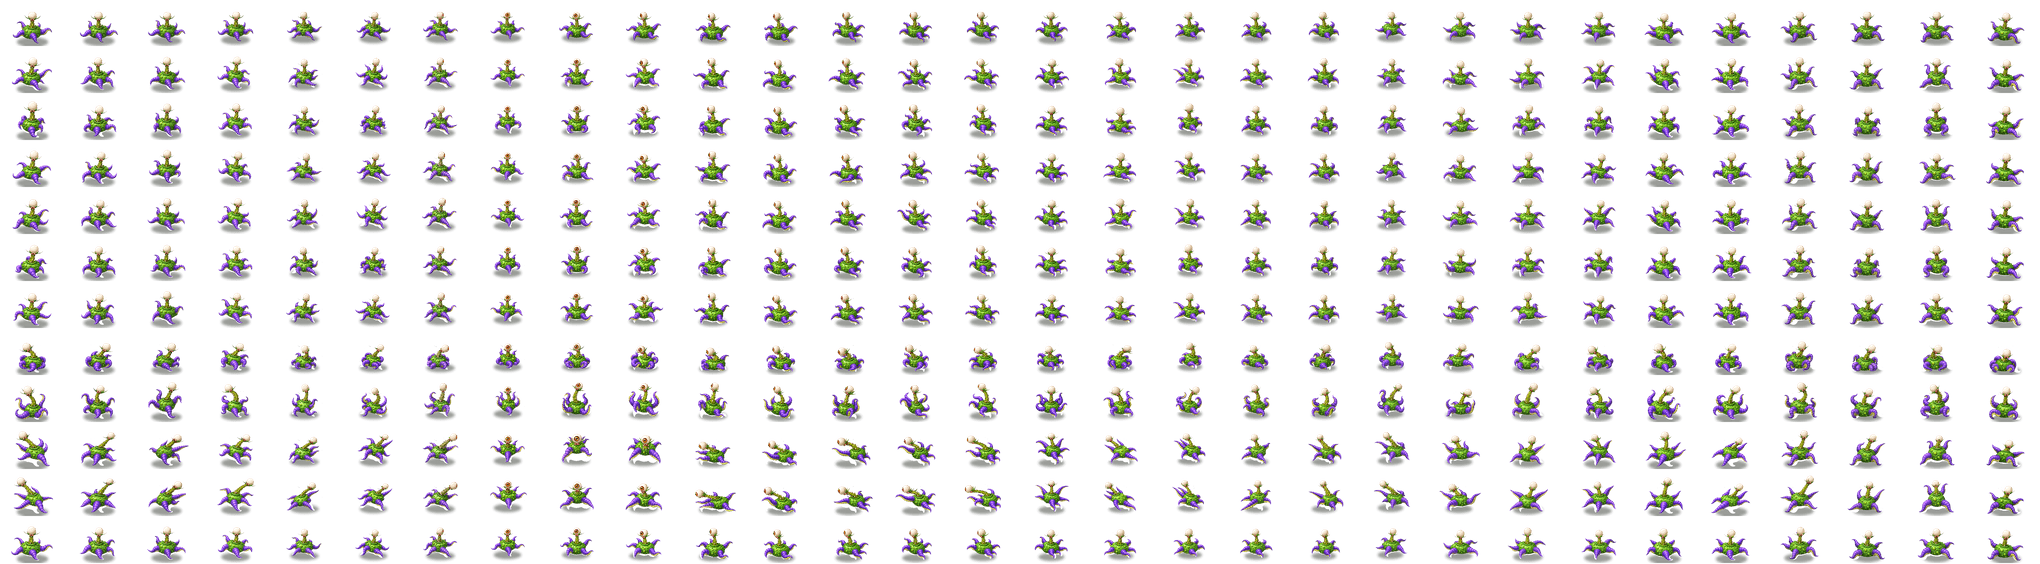
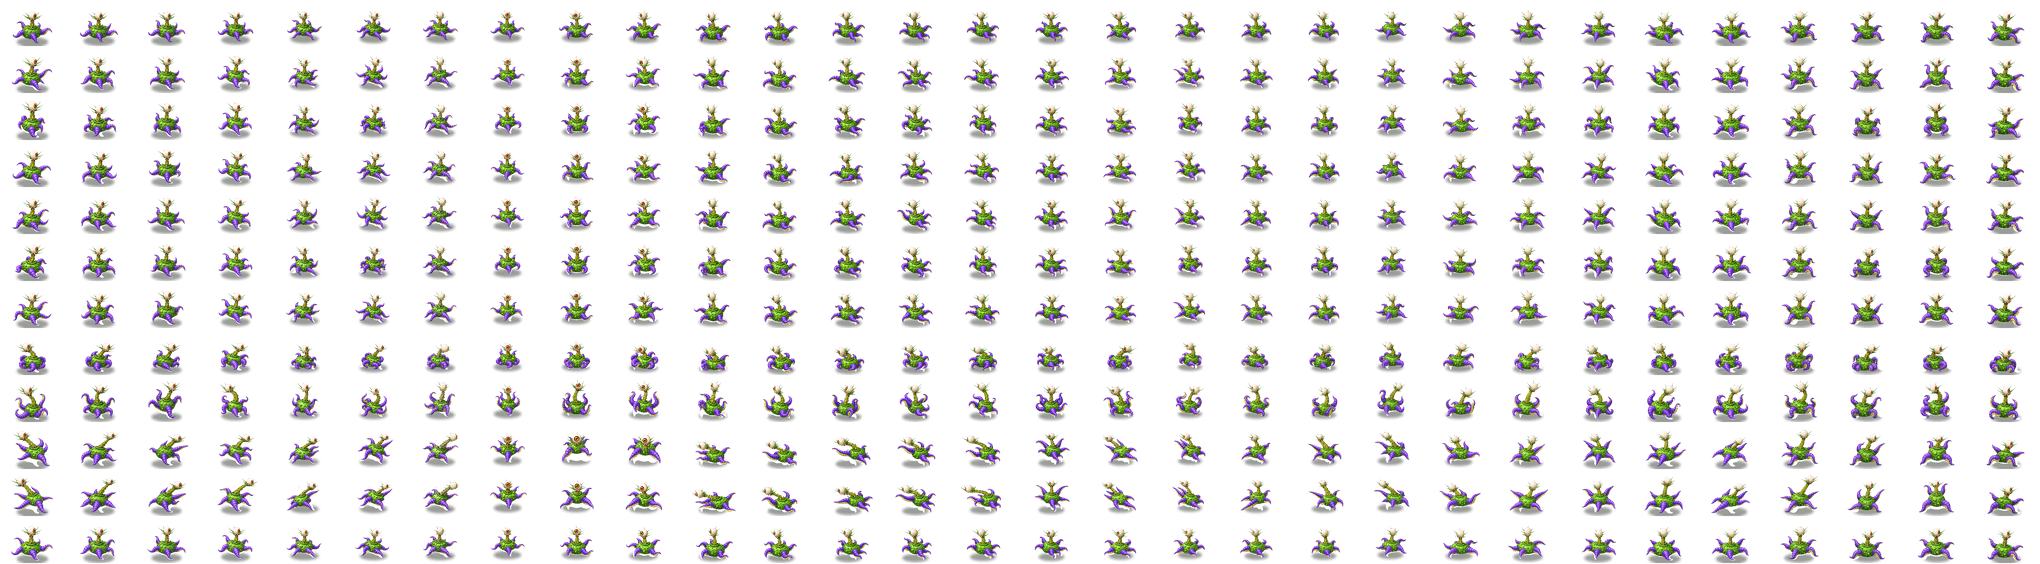
Fix Project X animation: eye shows when walking left/right, add leaves
Headings 27-5 and 15-18 showed only the blank back of the eyeball; they now get an
orange iris turned to the walking side. Every frame gets the long green leaves round
the eye from the portrait. Size, anchor and frame layout are unchanged. The new
eyefix.py step in the kit runs on build_h.py's frames before assemble.py.

Claude-Session: https://claude.ai/code/session_01NPVtfDgw5cMwav19EkNBEd

diff --git a/web/tools/projectx-anim-kit/eyefix.py b/web/tools/projectx-anim-kit/eyefix.py
@@ -1,0 +1,191 @@
+"""Project X eye fix: paint the eye on headings that showed only the blank back of the
+eyeball, and give every frame the long green leaves round the eye that the portrait has.
+
+Usage (from the kit's work folder): python eyefix.py <src_dir> <dst_dir>
+Reads <src_dir>/h<n>/frames/fNN.png (the frames build_h.py made) and writes the fixed frames
+to <dst_dir>/h<n>/frames/; run assemble.py in <dst_dir> afterwards.
+
+Headings are the sheet columns (12 degrees each, 0 = moving right, 7-8 = down, 15 = left,
+22 = up). Columns 6-14 already have a painted eye and keep it. The rest get an orange iris
+painted onto the white ball, turned to the side the monster walks: right for 27-5, left for
+15-18. Columns 19-26 (walking up the screen, away from the viewer) keep the plain back.
+"""
+import math, os, sys
+import numpy as np
+from PIL import Image, ImageDraw
+from scipy import ndimage as ndi
+
+N, ROWS = 30, 12
+SS = 4  # supersampling for the painted parts
+ELEV = math.radians(25)  # camera height used to project the leaves
+
+# iris turn (degrees, + = to screen-right) by heading; None = keep the art as it is
+KEEP = set(range(6, 15))
+YAW = {27: 66, 28: 61, 29: 56, 0: 52, 1: 50, 2: 50, 3: 50, 4: 50, 5: 50,
+       15: -50, 16: -55, 17: -60, 18: -66}
+
+
+def ball(a):
+    """Eyeball circle (cx, cy, R) and its mask in one RGBA frame (float array)."""
+    rgb = a[..., :3]; mx = rgb.max(-1); mn = rgb.min(-1)
+    sat = (mx - mn) / np.maximum(mx, 1); lum = rgb.mean(-1); solid = a[..., 3] > 200
+    m = solid & (lum > 120) & (sat < 0.25)
+    lab, n = ndi.label(m)
+    ar = ndi.sum(m, lab, range(1, n + 1)); cm = ndi.center_of_mass(m, lab, range(1, n + 1))
+    i = min((i for i in range(n) if ar[i] > 0.4 * ar.max()), key=lambda i: cm[i][0])
+    comp = lab == i + 1
+    # grow into the shaded side of the ball (darker but still unsaturated cream)
+    soft = solid & (lum > 85) & (sat < 0.33)
+    for _ in range(4):
+        comp |= ndi.binary_dilation(comp) & soft
+    comp = ndi.binary_opening(ndi.binary_fill_holes(comp))
+    lab2, _ = ndi.label(comp); ys, xs = np.where(comp)
+    comp = lab2 == np.bincount(lab2[comp]).argmax()
+    top = np.where(comp.any(1))[0].min()
+    best, cx = 0, 0.0
+    for y in range(top, min(top + 40, comp.shape[0])):
+        xx = np.where(comp[y])[0]
+        if len(xx) and xx.max() - xx.min() + 1 > best:
+            best = xx.max() - xx.min() + 1; cx = (xx.max() + xx.min()) / 2
+    R = best / 2
+    return cx, top + R - 0.5, R, comp
+
+
+def lerp(c0, c1, t):
+    return tuple(c0[i] + (c1[i] - c0[i]) * t for i in range(3))
+
+
+def iris_layer(a, cx, cy, R, mask, yaw):
+    """RGBA float layer (native size) with the iris and pupil painted on the ball."""
+    H, W = a.shape[:2]
+    x0, x1 = int(cx - R - 2), int(cx + R + 3); y0, y1 = int(cy - R - 2), int(cy + R + 3)
+    x0, y0 = max(0, x0), max(0, y0); x1, y1 = min(W, x1), min(H, y1)
+    ph, pw = (y1 - y0) * SS, (x1 - x0) * SS
+    yy, xx = np.mgrid[:ph, :pw]
+    u = ((x0 + (xx + 0.5) / SS) - 0.5 - cx) / R; v = ((y0 + (yy + 0.5) / SS) - 0.5 - cy) / R
+    r2 = u * u + v * v; inside = r2 < 1
+    nz = np.sqrt(np.clip(1 - r2, 0, 1))
+    b = math.radians(yaw); p = 0.08
+    w = (math.sin(b) * math.cos(p), math.sin(p), math.cos(b) * math.cos(p))
+    d = u * w[0] + v * w[1] + nz * w[2]
+    ang = np.arccos(np.clip(d, -1, 1)); A = 0.62; P = 0.24
+    # angle round the iris centre, for faint radial streaks
+    e1 = np.array([math.cos(b), 0, -math.sin(b)]); e2 = np.cross(w, e1)
+    phi = np.arctan2(u * e2[0] + v * e2[1] + nz * e2[2], u * e1[0] + v * e1[1] + nz * e1[2])
+    t = ang / A
+    col = np.zeros((ph, pw, 3))
+    stops = [(0.0, (250, 178, 70)), (0.45, (246, 150, 45)), (0.75, (222, 104, 22)),
+             (0.92, (150, 52, 14)), (1.0, (95, 32, 10))]
+    for (t0, c0), (t1, c1) in zip(stops, stops[1:]):
+        s = (t >= t0) & (t < t1); k = ((t - t0) / (t1 - t0))[s][:, None]
+        col[s] = np.array(c0) + (np.array(c1) - np.array(c0)) * k
+    col *= (1 + 0.07 * np.sin(phi * 13))[..., None] * (1 + 0.04 * np.sin(phi * 31 + 1))[..., None]
+    pupil = ang < P
+    col[pupil] = (22, 12, 10)
+    on = inside & (ang < A)
+    # keep the ball's own light and shade: scale by the original brightness
+    big = np.kron(a[y0:y1, x0:x1], np.ones((SS, SS, 1)))
+    lum = big[..., :3].mean(-1)
+    ref = np.percentile(a[..., :3].mean(-1)[mask], 90)
+    shade = np.clip(lum / ref, 0.55, 1.08)[..., None]
+    col = col * shade
+    # the ball's bright highlight shows through
+    hl = np.clip((lum - 0.97 * ref) / (0.06 * ref), 0, 1)[..., None]
+    col = col * (1 - hl * 0.7) + big[..., :3] * hl * 0.7
+    mbig = np.kron(ndi.binary_erosion(mask)[y0:y1, x0:x1].astype(float), np.ones((SS, SS)))
+    mbig = ndi.uniform_filter(mbig, SS)
+    alpha = on * mbig
+    # soften the iris edge on the ball
+    alpha = ndi.uniform_filter(alpha, 3)
+    # downsample (premultiplied)
+    pre = np.dstack([col * alpha[..., None], alpha])
+    small = pre.reshape(y1 - y0, SS, x1 - x0, SS, 4).mean((1, 3))
+    out = np.zeros((H, W, 4)); out[y0:y1, x0:x1] = small
+    return out
+
+
+def blades(heading, frame, cx, cy, R):
+    """List of (depth, polygon-outer, polygon-inner) in supersampled screen coords."""
+    psi0 = heading * 12
+    if 1 <= frame <= 6:
+        sway = 7 * math.sin(2 * math.pi * (frame - 1) / 6); rise = 1 + 0.08 * math.cos(2 * math.pi * (frame - 1) / 6)
+    elif frame >= 7:
+        sway = [0, -5, 8, 5, 0][frame - 7]; rise = [0.85, 1.2, 0.8, 0.85, 1.0][frame - 7]
+    else:
+        sway, rise = 0, 1
+    spec = [(10, 2.7), (55, 2.2), (110, 2.3), (170, 2.75), (215, 2.3), (265, 1.9), (320, 2.4)]
+    bx, by = cx, cy + 0.6 * R
+    out = []
+    for az, L in spec:
+        psi = math.radians(psi0 + az + sway); L *= R
+        gx, gy = math.cos(psi), math.sin(psi)
+        pts = []
+        for j in range(13):
+            t = j / 12
+            rr = L * t; hh = L * rise * (0.02 * t + 0.42 * t ** 2.2)
+            sx = bx + rr * gx
+            sy = by + rr * gy * math.sin(ELEV) - hh * math.cos(ELEV)
+            pts.append((sx, sy))
+        depth = gy * math.cos(ELEV)
+        wid = [0.38 * R * (1 - (j / 12) ** 1.4) * (0.55 + 0.45 * math.sin(math.pi * min(1, j / 12 + 0.25))) for j in range(13)]
+        def poly(scale):
+            left, right = [], []
+            for j, (px, py) in enumerate(pts):
+                qx, qy = pts[min(j + 1, 12)]; ox, oy = pts[max(j - 1, 0)]
+                tx, ty = qx - ox, qy - oy; nl = math.hypot(tx, ty) or 1
+                nx, ny = -ty / nl, tx / nl; hw = wid[j] * scale / 2
+                left.append(((px + nx * hw) * SS, (py + ny * hw) * SS))
+                right.append(((px - nx * hw) * SS, (py - ny * hw) * SS))
+            return left + right[::-1]
+        out.append((depth, poly(1.0), poly(0.45)))
+    return out
+
+
+def leaf_layer(H, W, items, front):
+    im = Image.new('RGBA', (W * SS, H * SS)); d = ImageDraw.Draw(im)
+    for depth, outer, inner in sorted(items, key=lambda b: b[0]):
+        k = 1.0 if depth > 0 else 0.82
+        d.polygon(outer, fill=(int(46 * k), int(100 * k), int(28 * k), 255))
+        d.polygon(inner, fill=(int(108 * k), int(182 * k), int(60 * k), 255))
+    im = im.resize((W, H), Image.LANCZOS)
+    return np.asarray(im).astype(float)
+
+
+def over(dst, src):
+    """alpha-composite straight-alpha float src over dst (both 0-255 RGBA)."""
+    sa = src[..., 3:] / 255; da = dst[..., 3:] / 255
+    oa = sa + da * (1 - sa)
+    rgb = (src[..., :3] * sa + dst[..., :3] * da * (1 - sa)) / np.maximum(oa, 1e-6)
+    return np.dstack([rgb, oa * 255])
+
+
+def fix_frame(a, n, k):
+    cx, cy, R, mask = ball(a)
+    H, W = a.shape[:2]
+    items = blades(n, k, cx, cy, R)
+    back = leaf_layer(H, W, items, False)  # every leaf sits behind the ball
+    # the ball and the pink lips under it hide the leaves behind them
+    yy, xx = np.mgrid[:H, :W]
+    disk = np.clip(R + 0.5 - np.hypot(xx - cx, yy - cy), 0, 1)
+    rgb = a[..., :3]
+    lips = (a[..., 3] > 128) & (rgb[..., 0] > 140) & (rgb[..., 0] > rgb[..., 1] + 40) & (rgb[..., 2] > 60)         & (np.abs(xx - cx) < 1.2 * R) & (yy > cy) & (yy < cy + 1.8 * R)
+    hide = np.maximum(disk, ndi.uniform_filter(lips.astype(float), 3))
+    back[..., 3] *= 1 - np.clip(hide, 0, 1)
+    mask = (disk > 0.5) & ~lips
+    out = over(a, back)
+    if n not in KEEP and n in YAW:
+        ir = iris_layer(a, cx, cy, R, mask, YAW[n])
+        al = ir[..., 3:]
+        rgb = np.where(al > 0, ir[..., :3] / np.maximum(al, 1e-6), 0)
+        out = over(out, np.dstack([rgb, al * 255]))
+    return np.clip(out, 0, 255).astype('uint8')
+
+
+if __name__ == '__main__':
+    src, dst = sys.argv[1], sys.argv[2]
+    for n in range(N):
+        os.makedirs(f'{dst}/h{n}/frames', exist_ok=True)
+        for k in range(ROWS):
+            a = np.asarray(Image.open(f'{src}/h{n}/frames/f{k:02d}.png').convert('RGBA')).astype(float)
+            Image.fromarray(fix_frame(a, n, k), 'RGBA').save(f'{dst}/h{n}/frames/f{k:02d}.png')
+        print('h', n, flush=True)
